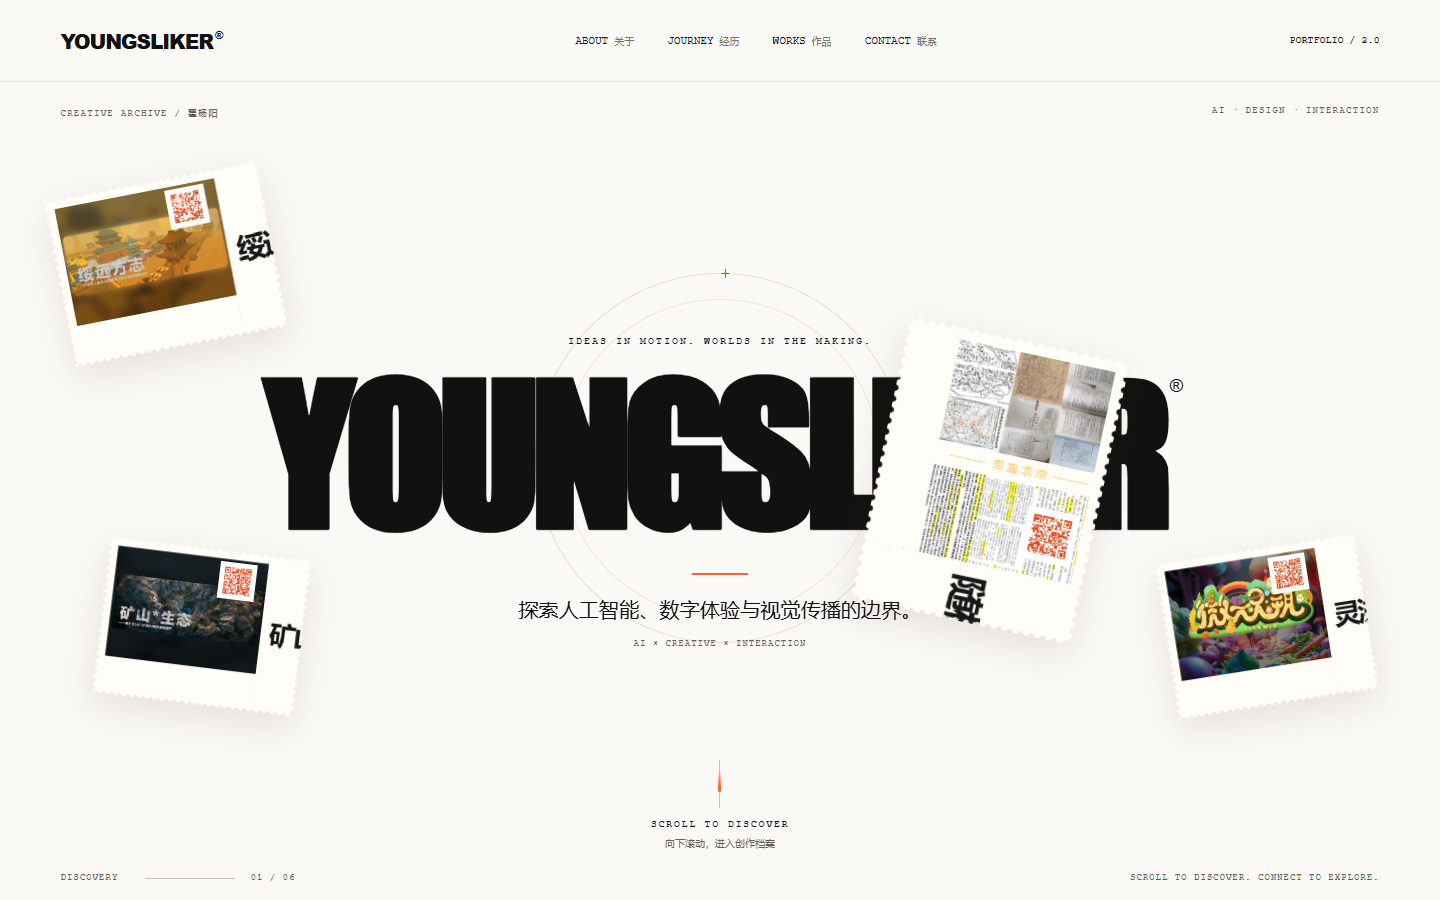
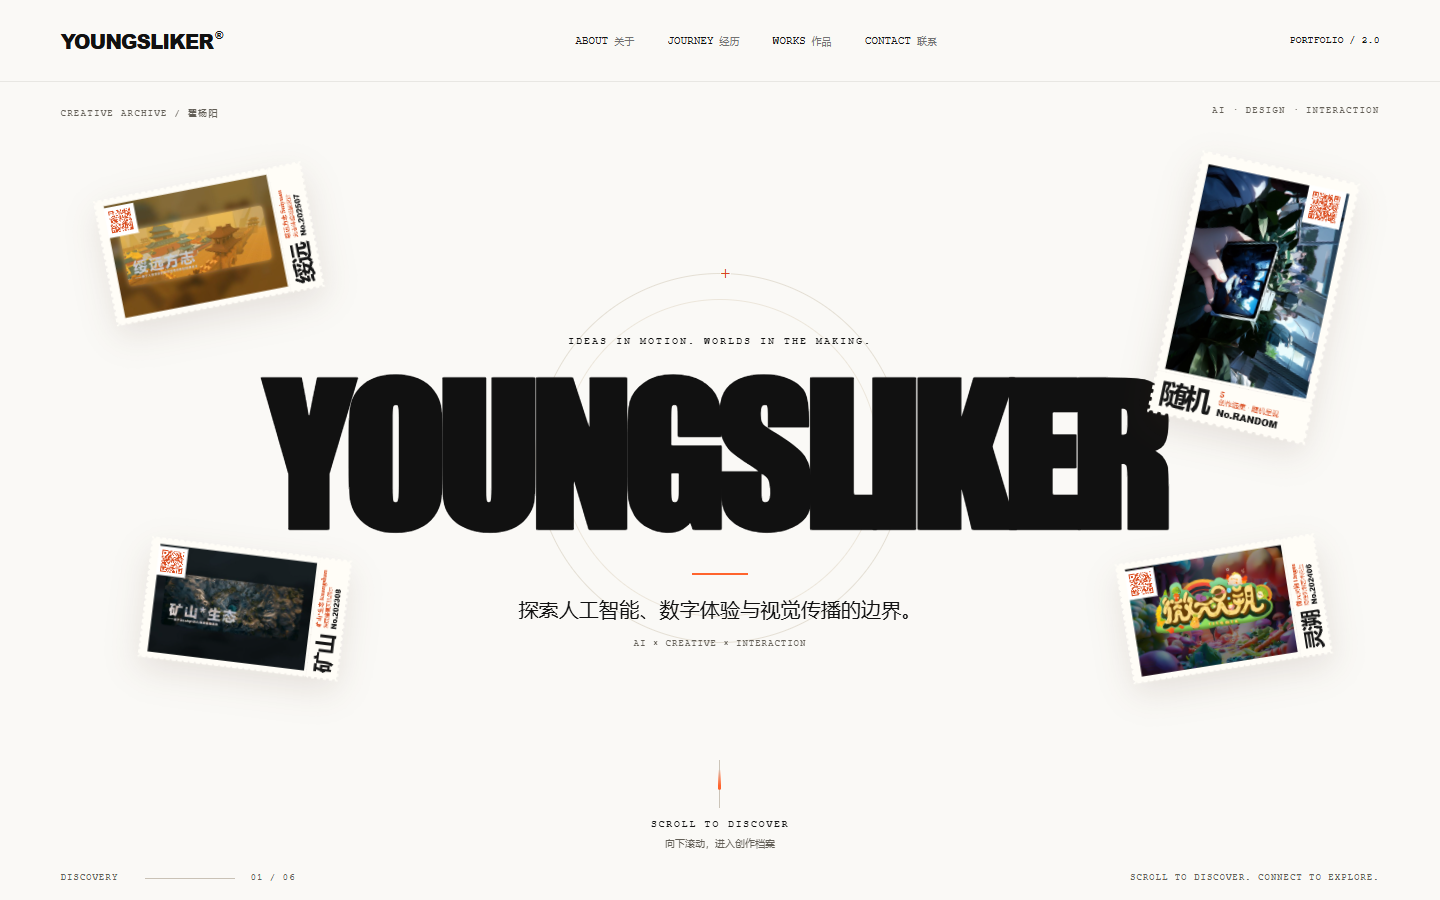
Astra改new小票

diff --git a/New/css/hero.css b/New/css/hero.css
@@ -8,12 +8,12 @@
 .hero-orbit { position: absolute; width: 370px; height: 370px; left: calc(50% - 185px); top: calc(46% - 185px); border: 1px solid #e4dfd4; border-radius: 50%; z-index: -1; }
 .hero-orbit i { position: absolute; inset: 25px; border: 1px solid #ece6db; border-radius: 50%; }
 .hero-orbit > span { position: absolute; top: -10px; left: 50%; color: var(--accent-text); background: var(--paper); font: 18px var(--mono); }
-.hero-card { margin: 0; position: absolute; width: 15%; max-width: 224px; z-index: 3; will-change: transform,opacity; }
+.hero-card { margin: 0; position: absolute; width: 21%; max-width: 320px; z-index: 3; will-change: transform,opacity; }
 .hero-card:focus-within, .hero-card:hover { z-index: 7; }
 .hero-card--1 { left: 4%; top: 12%; transform: rotate(-11deg); }
 .hero-card--2 { right: 5%; top: 10%; width: 16%; transform: rotate(12deg); }
-.hero-card--3 { left: 7%; top: 57%; width: 14%; transform: rotate(7deg); }
-.hero-card--4 { right: 5%; top: 57%; width: 14%; transform: rotate(-9deg); }
+.hero-card--3 { left: 7%; top: 57%; width: 20%; transform: rotate(7deg); }
+.hero-card--4 { right: 5%; top: 57%; width: 20%; transform: rotate(-9deg); }
 .hero-description { position: absolute; top: 60%; left: 27%; right: 27%; text-align: center; z-index: 4; }
 .hero-rule { display: block; width: 56px; height: 2px; background: var(--accent); margin: 0 auto 18px; }
 .hero-description p { font-size: clamp(15px,1.4vw,22px); line-height: 1.7; }
@@ -42,11 +42,11 @@
   .hero h1 { font-size:14.1vw; letter-spacing:-.035em; }
   .hero h1 > span { font-size:9px; margin:5px 0 0 2px; }
   .hero-orbit { width:230px; height:230px; left:calc(50% - 115px); top:calc(40% - 115px); }
-  .hero-card { width:23%; }
+  .hero-card { width:32%; }
   .hero-card--1 { top:9%; left:5%; transform:rotate(-10deg); }
   .hero-card--2 { top:9%; right:7%; width:24%; transform:rotate(10deg); }
-  .hero-card--3 { top:65%; left:3%; width:21%; }
-  .hero-card--4 { top:65%; right:3%; width:21%; }
+  .hero-card--3 { top:65%; left:3%; width:30%; }
+  .hero-card--4 { top:65%; right:3%; width:30%; }
   .hero-description { top:53%; left:18%; right:18%; }
   .hero-description p { font-size:13px; }
   .hero-description > span:last-child { font-size:7px; letter-spacing:0; margin-top:8px; }

diff --git a/New/js/tests/ticket.spec.ts b/New/js/tests/ticket.spec.ts
@@ -11,16 +11,18 @@ for (const viewport of [{width:1440,height:900}, {width:375,height:667}]) {
     await expect(page.locator('.artwork-ticket__stub')).toHaveCount(4);
     for (let i=0;i<4;i++) {
       const ticket=tickets.nth(i);
-      await expect(ticket).toHaveAttribute('data-orientation','horizontal');
+      await expect(ticket).toHaveAttribute('data-orientation','vertical');
       await expect(page.locator('.artwork-ticket').nth(i)).toHaveAttribute('data-layout', i === 1 ? 'portrait' : 'landscape');
       await expect(ticket).toHaveCSS('color','rgb(217, 74, 28)');
+      await expect(ticket.locator('.artwork-ticket__name')).toHaveCSS('color','rgb(23, 23, 23)');
+      await expect(ticket.locator('strong')).toHaveCSS('color','rgb(23, 23, 23)');
       await expect(ticket.locator('.tear-ticket__image')).toBeVisible();
       await expect(ticket.locator('.artwork-ticket__qr')).toBeVisible();
       const qrSize = await ticket.locator('.artwork-ticket__qr').evaluate(el => ({w: el.clientWidth, h: el.clientHeight}));
       expect(qrSize.w).toBe(qrSize.h);
       await expect(ticket.locator('.tear-ticket__art')).toHaveCSS('border-radius','0px');
       await expect.poll(() => ticket.locator('.tear-ticket__image').evaluate(img => (img as HTMLImageElement).naturalWidth)).toBeGreaterThan(0);
-      const box=await ticket.boundingBox(); expect(box!.width).toBeGreaterThan(70);
+      const box=await ticket.boundingBox(); expect(box!.width).toBeGreaterThan(45);
     }
     await page.screenshot({path:'docs/screenshots/tear-ticket-'+viewport.width+'.png'});
     for (const i of [0,1]) {
@@ -37,12 +39,6 @@ test('horizontal and vertical stubs tear with pointer drag', async ({page}) => {
   await page.goto(base);
   for (const i of [0,1]) {
     const ticket=page.locator('.tear-ticket').nth(i);
-    if (i === 1) {
-      await ticket.getByRole('button').focus();
-      await page.keyboard.press('Enter');
-      await expect(ticket).toHaveAttribute('data-used','');
-      continue;
-    }
     const stub=ticket.locator('.artwork-ticket__stub');
     await stub.hover();
     const box=(await stub.boundingBox())!;

diff --git a/New/css/artwork-ticket.css b/New/css/artwork-ticket.css
@@ -1,5 +1,5 @@
-.artwork-ticket { position:relative; width:100%; filter:drop-shadow(0 12px 17px #55341d20); }
-.artwork-ticket__sheet { position:absolute; top:0; left:0; width:360px; height:280px; transform-origin:0 0; }
+.artwork-ticket { position:relative; width:70%; margin-inline:auto; filter:drop-shadow(0 12px 17px #55341d20); }
+.artwork-ticket__sheet { position:absolute; top:0; left:0; width:280px; height:464px; transform-origin:0 0; }
 .artwork-ticket .tear-ticket__paper {
   mask:
     radial-gradient(circle at 7px 0, transparent 3.5px, #000 4px) 0 0 / 14px 100% repeat-x,
@@ -8,7 +8,12 @@
     radial-gradient(circle at 100% 7px, transparent 3.5px, #000 4px) 0 0 / 100% 14px repeat-y;
   mask-composite:intersect;
 }
-.artwork-ticket .tear-ticket__art { top:15px; left:15px; width:271px; height:198px; border-radius:0; }
+.artwork-ticket .tear-ticket__art { top:15px; left:15px; width:250px; height:375px; border-radius:0; }
+/* Rotate the 3:2 source into the portrait frame; the landscape sheet cancels this turn. */
+.artwork-ticket .tear-ticket__image {
+  width:375px; height:250px; left:-62.5px; top:62.5px; rotate:90deg;
+  object-fit:contain;
+}
 .artwork-ticket__qr {
   position:absolute; top:20px; right:20px; display:block;
   width:60px; height:60px; min-width:60px; max-width:none;
@@ -30,4 +35,4 @@
   overflow:hidden; white-space:nowrap; text-overflow:ellipsis; color:#d94a1c;
 }
 .artwork-ticket__description { margin:0; font-size:12px; line-height:1.1; white-space:nowrap; color:#d94a1c; }
-.artwork-ticket__caption strong { font-family:Arial,sans-serif; font-size:16px; line-height:1; font-weight:800; }
+.artwork-ticket__caption strong { font-family:Arial,sans-serif; font-size:16px; line-height:1; font-weight:800; color:#171717; }

diff --git a/New/js/components/ArtworkTicket.tsx b/New/js/components/ArtworkTicket.tsx
@@ -19,7 +19,7 @@ export function ArtworkTicket({ title, date, image, qrValue, width, height }: {
   useEffect(() => {
     const element = host.current;
     if (!element) return;
-    const observer = new ResizeObserver(([entry]) => setScale(entry.contentRect.width / (vertical ? 280 : 360)));
+    const observer = new ResizeObserver(([entry]) => setScale(entry.contentRect.width / (vertical ? 280 : 464)));
     observer.observe(element);
     return () => observer.disconnect();
   }, [vertical]);
@@ -30,12 +30,12 @@ export function ArtworkTicket({ title, date, image, qrValue, width, height }: {
     return () => { active = false; };
   }, [qrValue]);
   return <div ref={host} className="artwork-ticket" data-layout={vertical ? 'portrait' : 'landscape'}
-    style={{ aspectRatio: vertical ? '280 / 360' : '360 / 280' }}>
+    style={{ aspectRatio: vertical ? '280 / 464' : '464 / 280' }}>
     <div className="artwork-ticket__sheet" style={{
-      transform: vertical ? `translateY(${280 * scale}px) rotate(90deg) scale(${scale})` : `scale(${scale})`,
+      transform: vertical ? `scale(${scale})` : `translateY(${280 * scale}px) rotate(-90deg) scale(${scale})`,
     }}>
       <TearTicket image={image} imageAlt={title + '作品图像'}
-        width={360} height={280} orientation="horizontal" stubSize={74}
+        width={280} height={464} orientation="vertical" stubSize={74}
         scrim={false} imageRadius={0} radius={0} holes={16} holeSize={2} notch={3} roughness={0}
         tearAngle={30} stretch={20} resistance={.45} rotate={0}
         tilt tiltMax={5} tiltReach={180} parallax={date === 'RANDOM' ? 9 : 4} perspective={1000}
